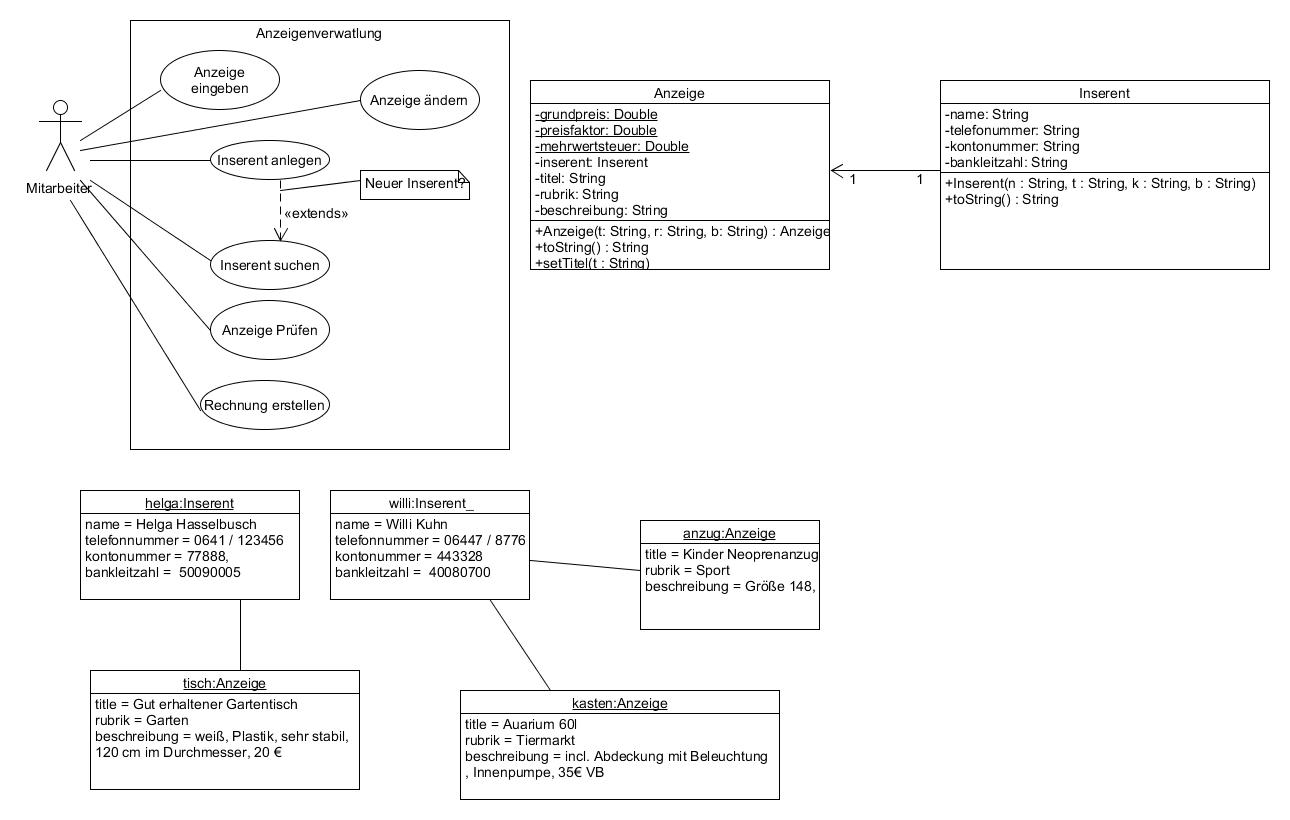
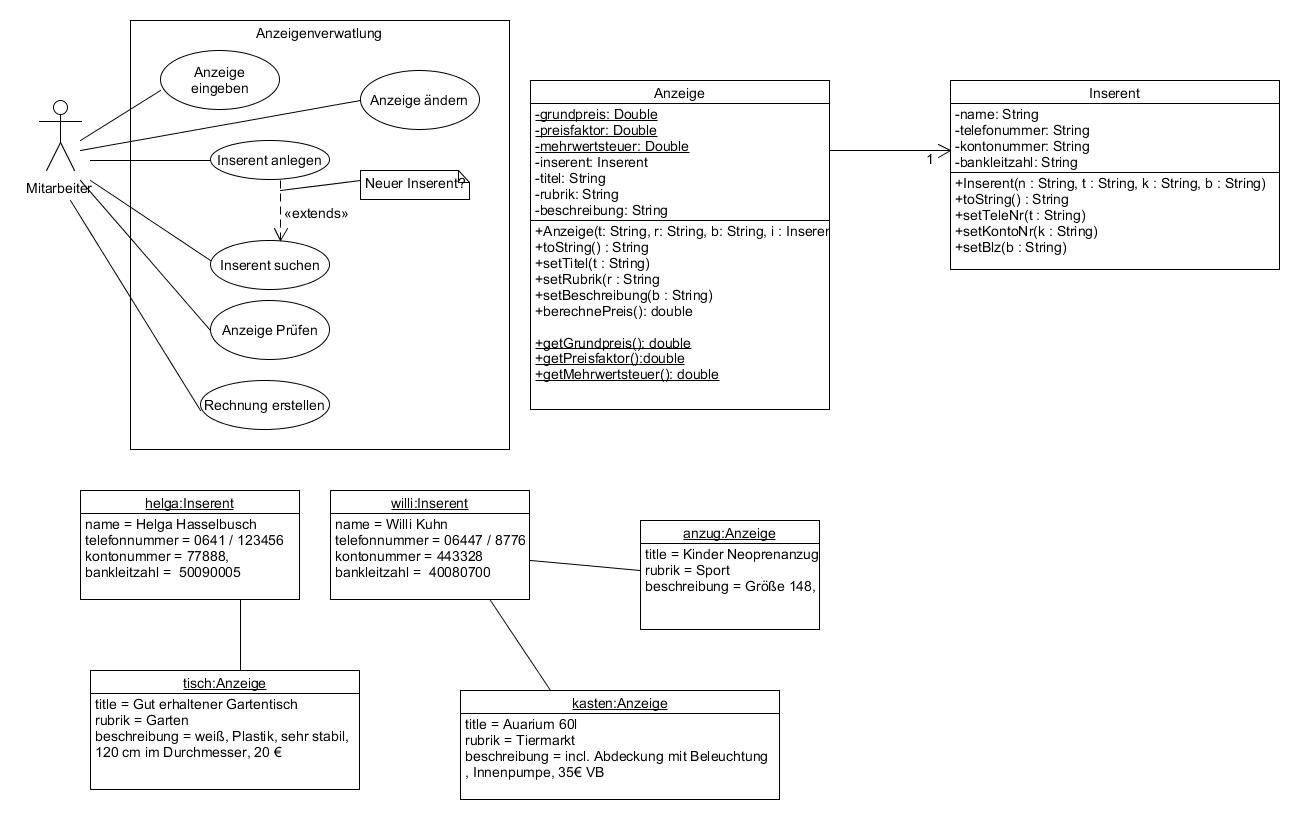
- no time

diff --git a/src/AnzeigeVerwaltung/Anzeige.java b/src/AnzeigeVerwaltung/Anzeige.java
@@ -1,0 +1,55 @@
+public class Anzeige{
+	private static double grundpreis = 8 ;
+	private static double preisfaktor = 0.035;
+	private static double mehrwertsteuer = 0.19;
+
+	private Inserent inserent;
+	private String titel;
+	private String rubrik;
+	private String beschreibung;
+
+	public Anzeige(String t, String r, String b, Inserent i){
+		this.titel = t;
+		this.rubrik = r;
+		this.beschreibung = b;
+		this.inserent = i;
+	}
+
+	public String toString(){
+		return "Titel: " + titel +"\n"
+		 + "Rubrik: " + rubrik + "\n"
+		 + "Beschreibung: " + beschreibung + "\n";
+	}
+
+	public void setTitel(String t){
+		this.titel = t;
+	}
+
+	public void setRubrik(String r){
+		this.rubrik = r;
+	}
+
+	public void setBeschreibung(String b){
+		this.beschreibung = b;
+	}
+
+	public static double getGrundpreis(){
+		return grundpreis;
+	}
+
+	public static double getPreisfaktor(){
+		return preisfaktor;
+	}
+
+	public static double getMehrwertsteuer(){
+		return mehrwertsteuer;
+	}
+
+	public double berechnePreis(){
+		int wordcount = titel.length() + rubrik.length() + beschreibung.length();
+		double brutto = grundpreis + preisfaktor * wordcount;
+		return brutto + brutto*mehrwertsteuer;
+	}
+
+
+}

diff --git a/src/AnzeigeVerwaltung/TestUI.java b/src/AnzeigeVerwaltung/TestUI.java
@@ -1,0 +1,23 @@
+public class TestUI{
+	public static void main(String[] args)
+	{
+		Inserent helga = new Inserent("Helga Hasselbusch", "0641/123456", "77888", "50090005");
+		Anzeige tisch = new Anzeige("gut erhaltener Gartentisch", "Garten", "weiß, Plastik, sehr stabil, 120 cm im Durchmesser, 20€", helga);
+		
+		Inserent willi = new Inserent("Willi Kuhn", "06447/8776", "443328", "40080700");
+		Anzeige aqua = new Anzeige("Aquarium 60l", "Tiermarkt", "incl. Abdeckung mit Beleuchtung, Innenpumpe, 35€ VB.", willi);
+		Anzeige anzug = new Anzeige("Kinder Neoprenanzug", "Sport", "Größe 148, kaum getragen, 19€", willi);
+
+		System.out.println(helga.toString());
+		System.out.println(tisch.toString());
+		System.out.println("Kosten: "tisch.berechnePreis() + "€\n");
+
+		System.out.println(willi.toString());
+		System.out.println(aqua.toString());
+		System.out.println(anzug.toString());
+		double p1 = aqua.berechnePreis();
+		double p2 = anzug.berechnePreis();
+		double g = p1 + p2;
+		System.out.println("Kosten\nAnzeige1: " + p1 + "€\nAnzeige2: " + p2 + "€\nGesamt: " + g + "€" );
+	}
+}

diff --git a/src/AnzeigeVerwaltung/Inserent.java b/src/AnzeigeVerwaltung/Inserent.java
@@ -1,0 +1,32 @@
+public class Inserent{
+	
+	private String name;
+	private String telefonummer;
+	private String Kontonummer;
+	private String bankleitzahl; 
+
+	public Inserent(String n, String t, String k, String b){
+		this.name = n;
+		this.telefonummer = t;
+		this.Kontonummer = k;
+		this.bankleitzahl = b;
+	}
+
+	public String toString() {
+		return "Name: "+ this.name +"\t\n"
+		+ "TelNr: " + this.telefonummer + "\t\n"
+		+ "Kontoverbindung " + this.Kontonummer + " " + this.bankleitzahl + "\t\n";
+	}
+
+	public void setTeleNr(String t){
+		this.telefonummer = t;
+	}
+
+	public void setKontoNr(String k){
+		this.Kontonummer = k;
+	}
+
+	public void setBlz(String b){
+		this.bankleitzahl = b;
+	}
+}
